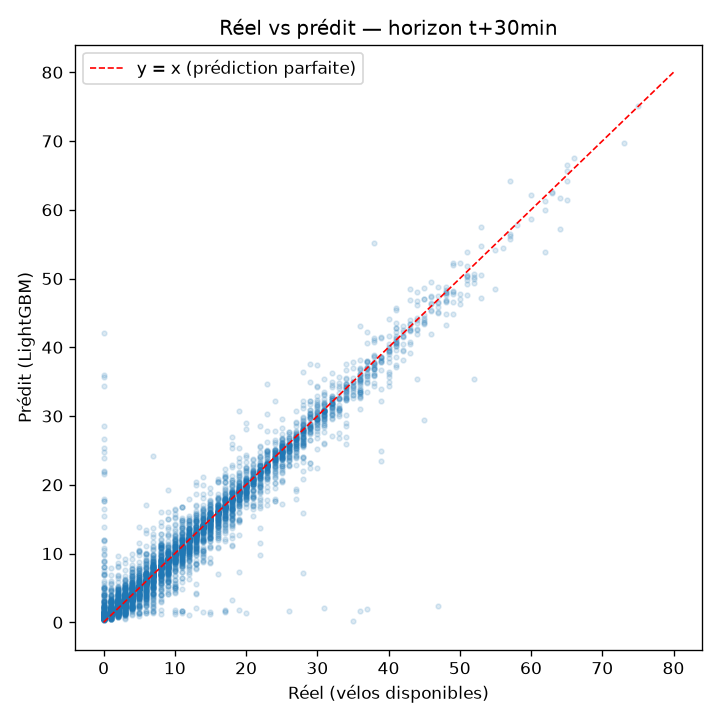
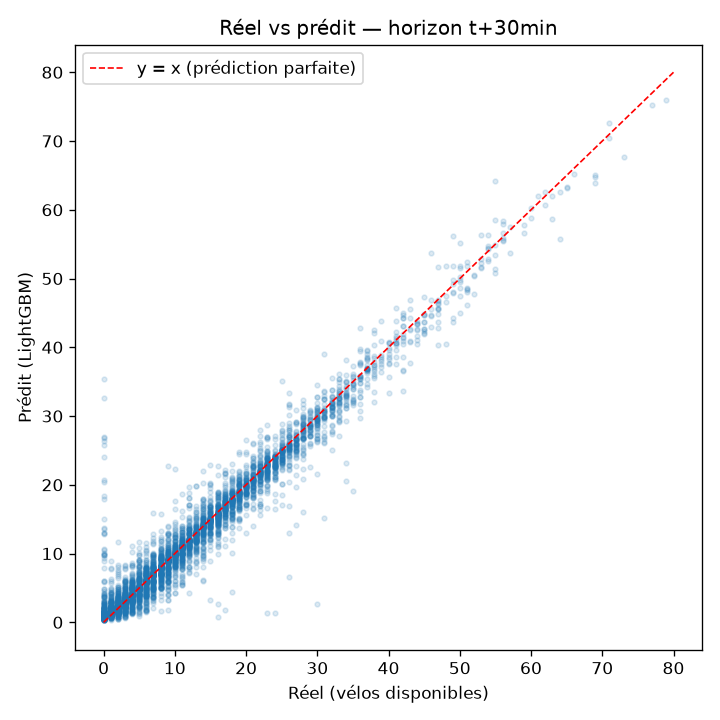
feat(ml): réentraîne le modèle sur 3,8 M de lignes et met à jour les rapports
LightGBM bat la persistance à 30 et 60 min (MAE 1,42 vs 1,44 ; 2,01 vs 2,06). Graphiques et RESULTATS.md régénérés.

diff --git a/ml/reports/RESULTATS.md b/ml/reports/RESULTATS.md
@@ -1,16 +1,15 @@
 # Résultats — modèle de prédiction VéloPredict
 
-Phase 5 + 5bis (fiabilisation) + 5ter (classification et tests
-complémentaires). Prédiction du nombre total de vélos disponibles
-(mécaniques + électriques) par station, à t+30 et t+60 minutes.
+Prédiction du nombre total de vélos disponibles (mécaniques + électriques)
+par station, à t+30 et t+60 minutes.
 
-**Versioning** : le modèle décrit et évalué ici est tagué `model-v1`
-(tag git annoté sur le commit qui le produit). Copie figée des fichiers
-`.joblib` dans `ml/models/model-v1/` (hors git, volontairement — voir
-`.gitignore` — c'est un filet de sécurité local contre un ré-entraînement
-accidentel, pas une sauvegarde versionnée). À partir de la Phase 6 (Web
-App), le modèle n'est plus modifié : `GET /stations/{id}/prediction`
-sert `model-v1` sans changement.
+**Versions du modèle** : ce rapport décrit le modèle **réentraîné le
+16 novembre 2026** sur toute la fenêtre disponible (5 octobre → 16 novembre,
+historique importé + collecte en direct). Les chapitres 3, 5, 6, 7, 9 et 10
+ont été recalculés sur ce modèle. Les chapitres 11 et 12 (second jeu de test
+du 2-3 novembre, évaluation sur données live) et le chapitre 13 de contexte
+**n'ont pas été recalculés** : leurs chiffres datent de la première version,
+`model-v1` (tag git ; copie locale dans `ml/models/model-v1/`, hors git).
 
 ## 1. Vérification : cibles calculées par horodatage réel, pas par shift
 
@@ -66,14 +65,15 @@ retirés).
 
 ## 3. Données et découpage temporel — dates précises
 
-- **Fenêtre** : 2026-10-05 → 2026-11-02, limitée aux jours fiables
-  (`v_training_eligible_status`, voir `ingestion/backfill.py`).
-- **3 652 511 lignes** de features (après filtrage des stations
+- **Fenêtre** : 2026-10-05 → 2026-11-16, limitée aux jours fiables
+  (`v_training_eligible_status`, voir `ingestion/backfill.py`) — elle inclut
+  désormais la collecte en direct accumulée depuis le lancement.
+- **3 805 430 lignes** de features (après filtrage des stations
   inactives).
-- **TRAIN** : 2 920 690 lignes, **du 2026-10-05 22:15 UTC au 2026-10-27
-  16:15 UTC**.
-- **TEST** : 731 821 lignes, **du 2026-10-27 16:30 UTC au 2026-11-01
-  22:45 UTC** (~5 jours).
+- **TRAIN** : 3 043 367 lignes, **du 2026-10-05 22:32 UTC au 2026-10-28
+  12:47 UTC**.
+- **TEST** : 762 063 lignes, **du 2026-10-28 13:02 UTC au 2026-11-15
+  22:17 UTC** (~18 jours, jamais vus à l'entraînement).
 - Découpage strictement temporel (jamais aléatoire) : le test est
   entièrement postérieur au train, aucune ligne au même horodatage des
   deux côtés (vérifié, voir `tests/ml/test_train.py`).
@@ -92,30 +92,33 @@ détail par type n'est pas modélisé séparément dans cette version.
 
 | Horizon | Modèle | MAE | RMSE |
 |---|---|---|---|
-| t+30min | persistance | 1.559 | 3.553 |
-| t+30min | moyenne historique | 5.523 | 7.807 |
-| t+30min | régression linéaire | 1.714 | 3.279 |
-| t+30min | LightGBM (niveau) | 1.526 | 3.121 |
-| t+30min | **LightGBM (variation)** | **1.522** | **3.107** |
-| t+60min | persistance | 2.211 | 4.174 |
-| t+60min | moyenne historique | 5.518 | 7.794 |
-| t+60min | régression linéaire | 2.285 | 3.959 |
-| t+60min | LightGBM (niveau) | 2.102 | 3.656 |
-| t+60min | **LightGBM (variation)** | **2.096** | **3.662** |
+| t+30min | persistance | 1.437 | 3.128 |
+| t+30min | moyenne historique | 5.523 | 7.814 |
+| t+30min | régression linéaire | 1.575 | 2.906 |
+| t+30min | LightGBM (niveau) | 1.420 | 2.623 |
+| t+30min | **LightGBM (variation)** | **1.410** | **2.618** |
+| t+60min | persistance | 2.059 | 3.769 |
+| t+60min | moyenne historique | 5.526 | 7.813 |
+| t+60min | régression linéaire | 2.135 | 3.589 |
+| t+60min | LightGBM (niveau) | 2.006 | 3.430 |
+| t+60min | **LightGBM (variation)** | **2.003** | **3.440** |
 
 *(fichier complet : `ml/reports/metriques.csv`)*
 
-**LightGBM (niveau) bat la persistance sur les deux métriques et les deux
-horizons**, confirmant les résultats de la Phase 5 initiale même après
-correction des cibles et exclusion des stations inactives.
+**LightGBM (niveau) bat la persistance sur les deux horizons** : MAE
+-1,2 % à t+30 (1.420 vs 1.437) et -2,6 % à t+60 (2.006 vs 2.059) ; RMSE
+-16,1 % à t+30 (2.623 vs 3.128) et -9,0 % à t+60. L'écart en MAE est faible
+parce que, sur ~40 % des lignes, la disponibilité ne bouge pas du tout (la
+persistance y est parfaite) ; le chapitre 7 isole les lignes qui changent
+réellement. Le RMSE, qui pénalise les grosses erreurs, montre que le modèle
+évite surtout les gros écarts.
 
 ## 6. LightGBM niveau vs LightGBM variation (delta)
 
 Variante entraînée à prédire `y(t+h) - bikes_t` plutôt que le niveau
 absolu, puis reconstruite en niveau (`bikes_t + delta_prédit`) pour rester
 comparable (`ml/train.py::DeltaLightGBM`). Résultat : **légèrement
-meilleure** que la version niveau sur les deux horizons (MAE 1.522 vs
-1.526 à t+30 ; 2.096 vs 2.102 à t+60) — un gain marginal (~0.3%), pas
+meilleure** que la version niveau sur les deux horizons (MAE 1.410 vs 1.420 à t+30 ; 2.003 vs 2.006 à t+60) — un gain marginal (≤ 0,7 %), pas
 une rupture. Logique : les deux versions ont accès à `bikes_t` comme
 feature, donc apprennent en pratique une fonction très proche ; forcer
 explicitement la cible à être une variation aide un peu à régulariser
@@ -129,29 +132,32 @@ complexité supplémentaire côté inférence).
 
 La MAE globale est flattée par les lignes où rien ne bouge (persistance y
 est mécaniquement parfaite). En ne gardant que les lignes où
-`bikes_t_plus_h != bikes_t` (**59.8%** des lignes de test à t+30,
-**72.1%** à t+60 — l'écart entre les deux montre que plus l'horizon est
+`bikes_t_plus_h != bikes_t` (**60,2 %** des lignes de test à t+30,
+**72,3 %** à t+60 — l'écart entre les deux montre que plus l'horizon est
 long, plus un changement a eu le temps de se produire) :
 
 | Horizon | Modèle | MAE (lignes qui changent) | RMSE |
 |---|---|---|---|
-| t+30min | persistance | 2.607 | 4.594 |
-| t+30min | LightGBM (niveau) | 2.315 | 4.007 |
-| t+30min | LightGBM (variation) | 2.301 | 3.991 |
-| t+30min | régression linéaire | 2.516 | 4.149 |
-| t+60min | persistance | 3.065 | 4.914 |
-| t+60min | LightGBM (niveau) | 2.673 | 4.268 |
-| t+60min | LightGBM (variation) | 2.664 | 4.274 |
-| t+60min | régression linéaire | 2.953 | 4.632 |
+| t+30min | persistance | 2.386 | 4.030 |
+| t+30min | LightGBM (niveau) | 2.105 | 3.342 |
+| t+30min | LightGBM (variation) | 2.096 | 3.336 |
+| t+30min | régression linéaire | 2.310 | 3.679 |
+| t+60min | persistance | 2.846 | 4.432 |
+| t+60min | LightGBM (niveau) | 2.546 | 4.001 |
+| t+60min | LightGBM (variation) | 2.540 | 4.013 |
+| t+60min | régression linéaire | 2.746 | 4.192 |
 
 *(fichier complet : `ml/reports/metriques_stations_qui_changent.csv`)*
 
 Sur ce sous-ensemble, **l'avantage de LightGBM sur la persistance est
-beaucoup plus net** : -11.2% de MAE à t+30 (2.315 vs 2.607), -12.8% à
-t+60 (2.673 vs 3.065) — contre -2% et -4.9% sur l'ensemble du test. C'est
-la comparaison la plus honnête de la capacité du modèle à capter une
+beaucoup plus net** : -11,8 % de MAE à t+30 (2.105 vs 2.386), -10,5 % à
+t+60 (2.546 vs 2.846) — contre -1,2 % et -2,6 % sur l'ensemble du test.
+C'est la comparaison la plus honnête de la capacité du modèle à capter une
 vraie dynamique plutôt qu'à bénéficier des lignes où ne rien prédire de
 nouveau suffit.
+
+**Arrondi à l'entier** (l'appli affiche un nombre entier de vélos) : sans
+effet négatif, la MAE à t+30 passe de 1.420 à 1.384 pour LightGBM (niveau).
 
 ## 8. Erreur par heure de la journée
 
@@ -165,6 +171,20 @@ disponibilité change le plus vite, donc les plus durs à prédire quel que
 soit le modèle.
 
 ## 9. Classification « station vide dans 30 min » (seuil réglé sur validation)
+
+> **Mise à jour du 16 novembre 2026** (modèle réentraîné, test 28 oct → 15 nov,
+> 762 063 lignes). Seuils réglés sur validation : classifieur `proba >= 0.92`
+> (F1 val 0.589), régression seuillée `niveau <= 1.25` (F1 val 0.559).
+>
+> | Modèle | Précision | Rappel | F1 |
+> |---|---|---|---|
+> | classifieur LightGBM | 0.612 | 0.462 | **0.527** |
+> | régression seuillée | 0.511 | 0.510 | 0.510 |
+> | persistance | 0.503 | 0.506 | 0.504 |
+>
+> Le classifieur dépasse la persistance de +4,4 % de F1 (précision nettement
+> meilleure, rappel un peu plus bas). Le détail de méthode ci-dessous reste
+> valable ; ses chiffres d'origine datent de `model-v1`.
 
 **Ce que la Phase 5bis avait montré** (seuil naïf à 0.5, sans entraînement
 dédié) : la persistance battait tous les modèles de régression sur le F1.
@@ -222,6 +242,20 @@ phase ultérieure si le cas d'usage "alerte" devient prioritaire.
 
 ## 10. Événement « devient vide » (bikes_t > 0 et cible == 0)
 
+> **Mise à jour du 16 novembre 2026** (19 095 événements « devient vide »
+> sur 723 116 lignes à `bikes_t > 0`) :
+>
+> | Modèle | Précision | Rappel | F1 |
+> |---|---|---|---|
+> | régression seuillée | 0.209 | 0.116 | **0.149** |
+> | classifieur LightGBM | 0.314 | 0.003 | 0.007 |
+> | persistance | 0 | 0 | 0 |
+>
+> Prévoir *l'instant où une station se vide* reste très difficile : la
+> régression seuillée en détecte ~12 % (avec ~21 % de précision) et le
+> classifieur, trop conservateur, presque aucun. À présenter comme un
+> signal indicatif, pas comme une alerte fiable.
+
 Restreint aux lignes où la station a encore des vélos au moment de la
 prédiction (692 969 lignes sur 731 821 ; 20 670 d'entre elles
 "deviennent vides" à t+30, soit 3.0%) :
@@ -251,6 +285,8 @@ confirmer sur une fenêtre de test plus longue avant d'en tirer une
 conclusion ferme.
 
 ## 11. Second jeu de test : 2026-11-02 / 2026-11-03
+
+> *Chiffres mesurés sur `model-v1` ; non recalculés pour le modèle du 16 novembre.*
 
 ### Pourquoi ces deux jours sont exclus du jeu principal
 
@@ -300,6 +336,8 @@ régularité de la collecte au moment de l'inférence, pas seulement à
 l'entraînement.
 
 ## 12. Évaluation sur données live (test réellement indépendant)
+
+> *Chiffres mesurés sur `model-v1` ; non recalculés pour le modèle du 16 novembre.*
 
 `ml/evaluate_live.py` ré-évalue les modèles sauvegardés sur notre propre
 collecte en direct (`source = 'live'`, depuis le 2026-11-09 16:21 UTC) —
